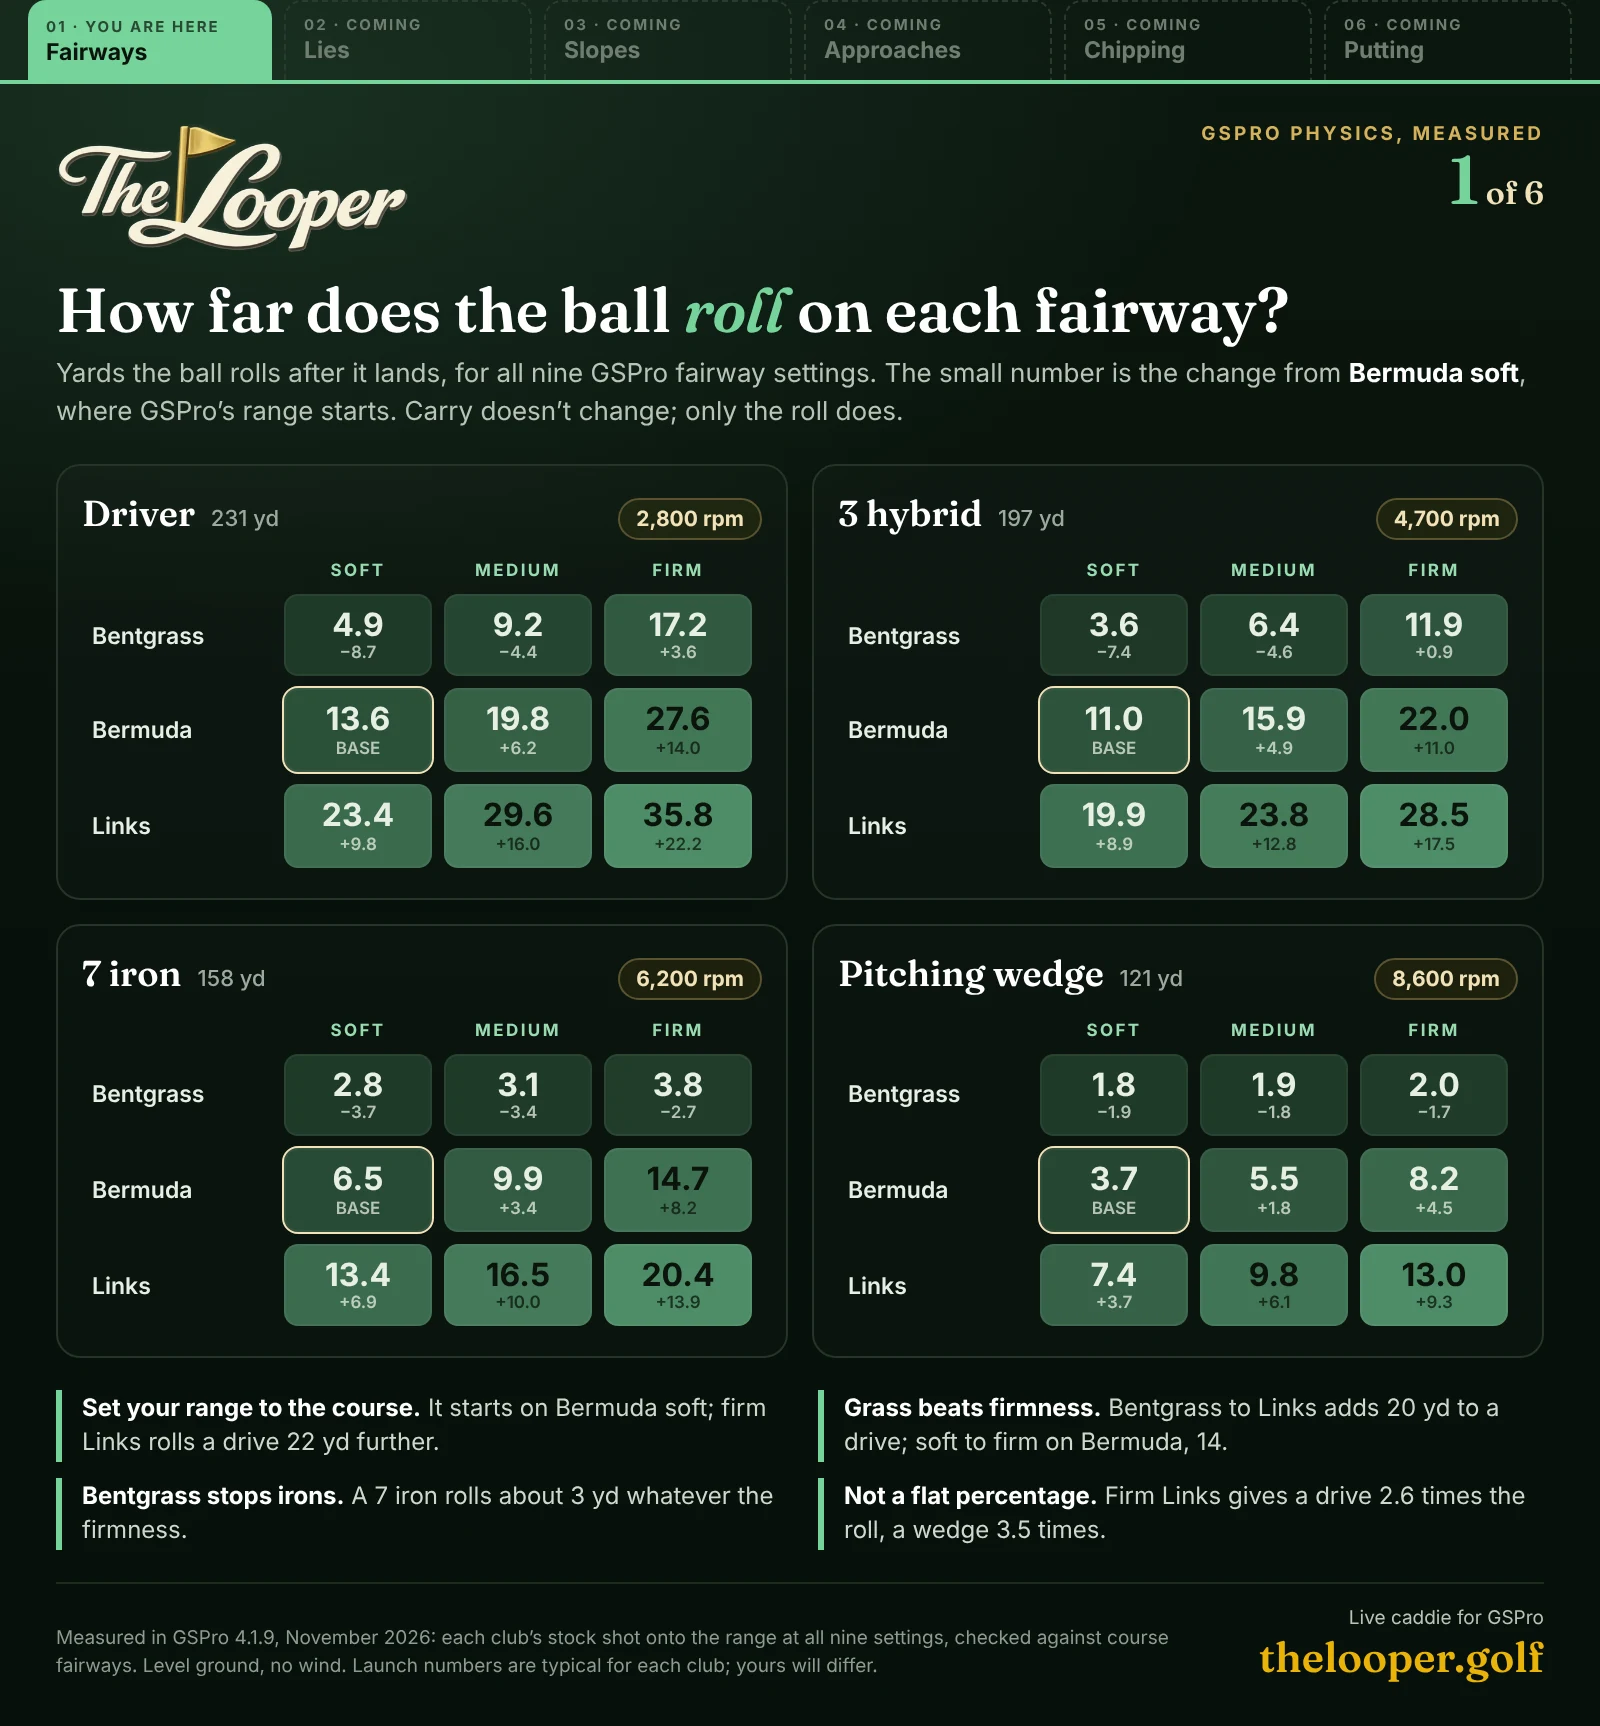
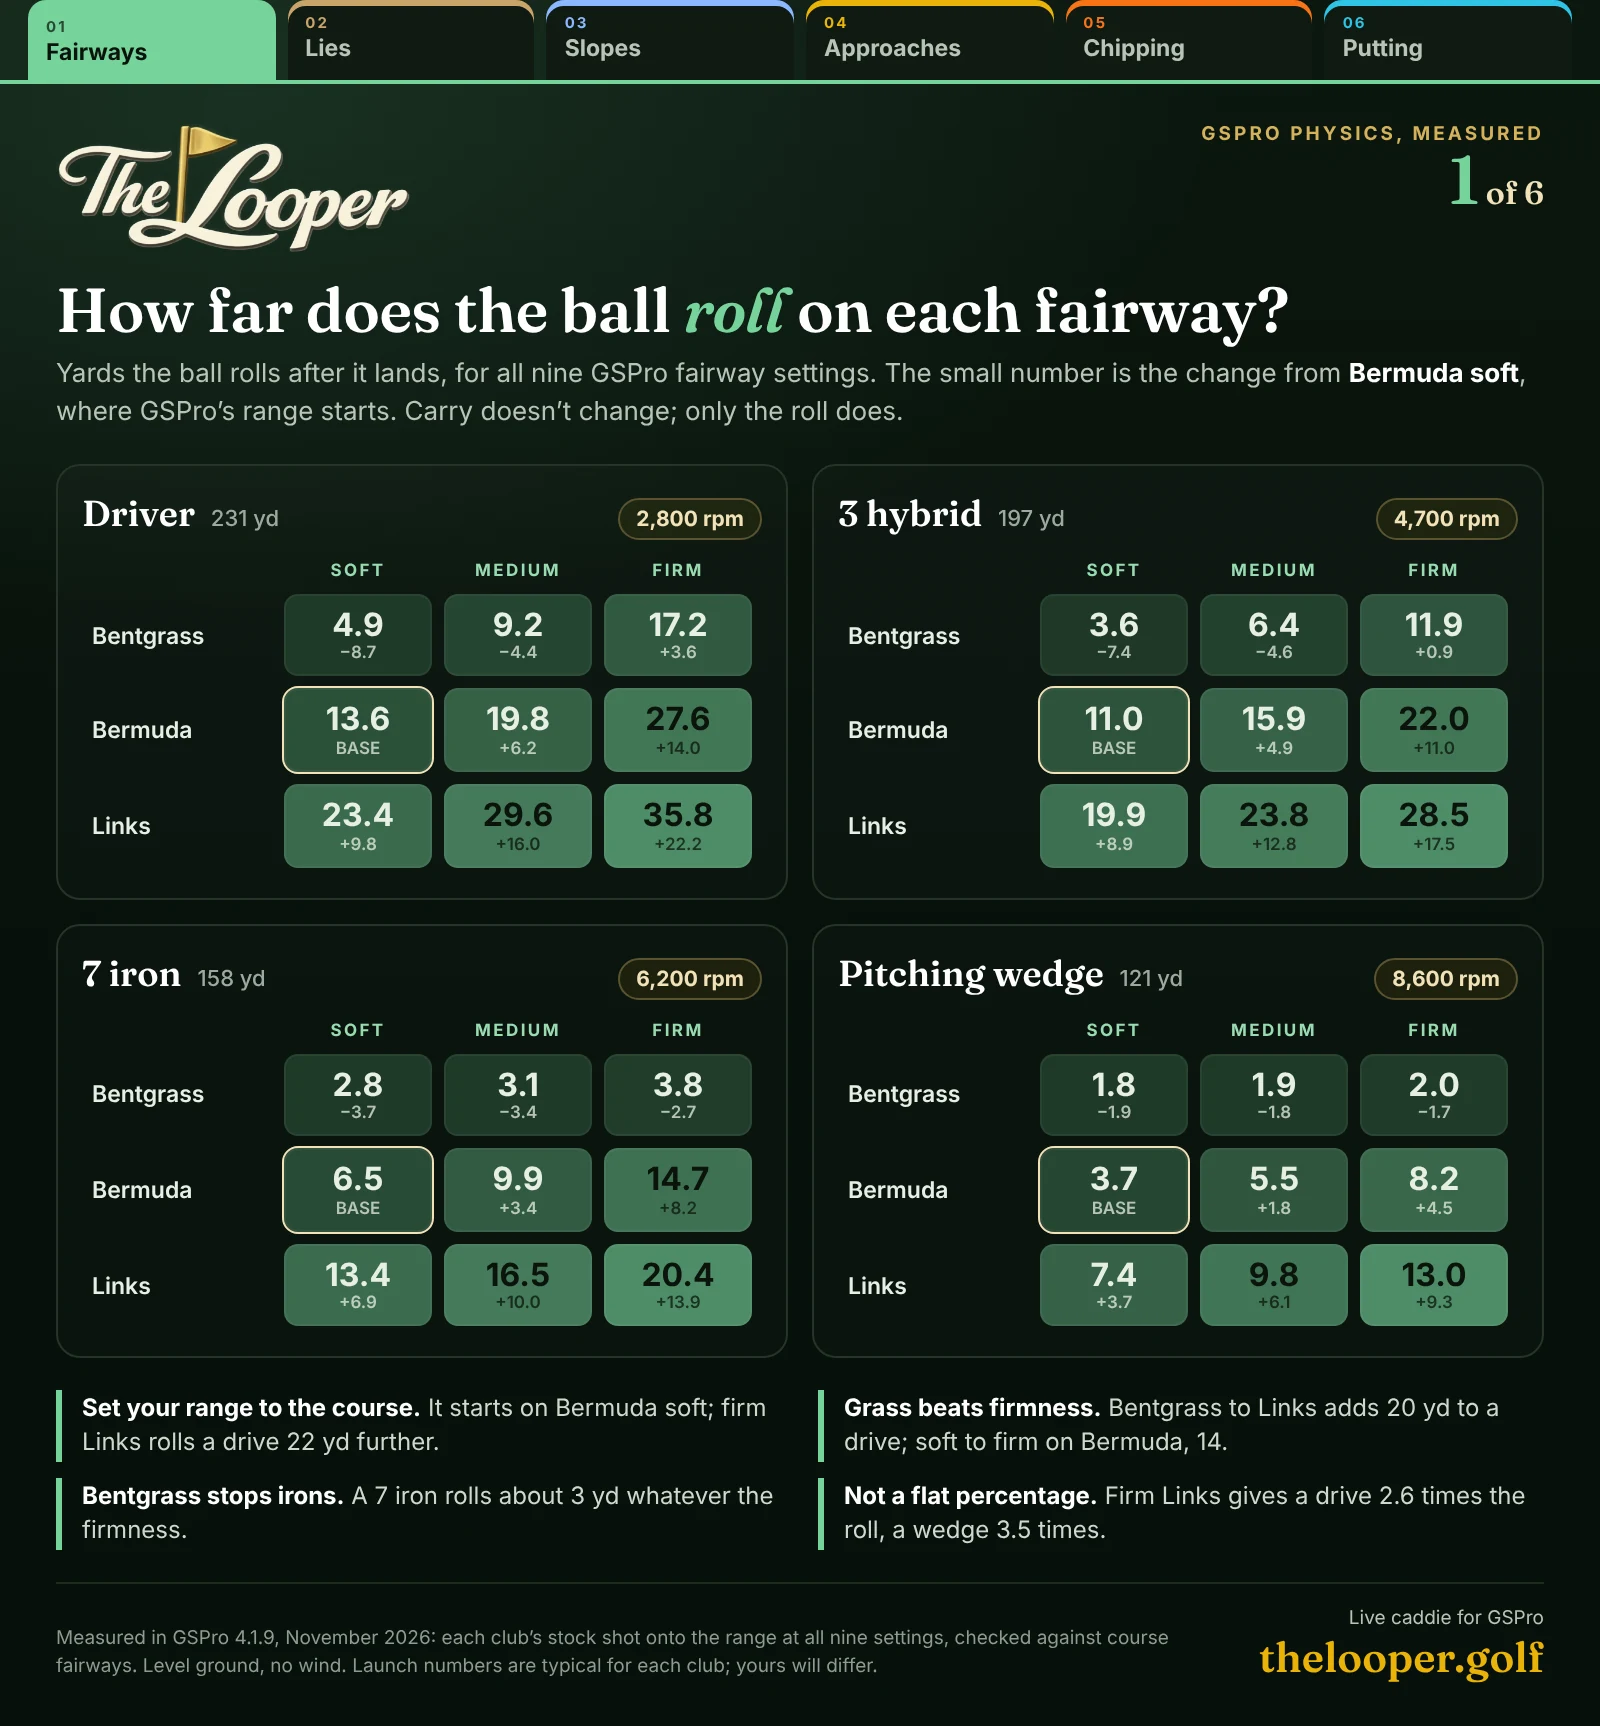
Insights: release all six parts together
Card tabs no longer say Coming / You are here; every part is a plain tab in
its colour. Page and method copy drop the series wording.

Claude-Session: https://claude.ai/code/session_01KGFLfEpMWkfe6jJuN8KeAf

Changed region(s): [[0.1562, 0.0, 0.9688, 0.0307], [0.0625, 0.0921, 0.25, 0.1535], [0.0938, 0.0, 0.125, 0.0307]]

diff --git a/src/pages/InsightsPage.tsx b/src/pages/InsightsPage.tsx
@@ -11,10 +11,9 @@ import InsightsReadQuiz from './InsightsReadQuiz'
 import './InsightsPage.css'
 
 /**
- * "GSPro physics, measured": the public home of the post series. No account
- * needed. Each part is a shareable card plus a short article, and every part
- * points at a free account. Parts that haven't been measured yet are shown as
- * open slots, so the whole series is visible from the first post.
+ * "GSPro physics, measured": six parts released together. No account needed.
+ * Each part is a shareable card plus a short article, and every part points at
+ * a free account.
  *
  * Posts link straight to a part: thelooper.golf/insights#greens
  */
@@ -455,7 +454,7 @@ export default function InsightsPage() {
     <div className="insights-page" id="top">
       <header className="insights-top">
         <div className="insights-wrap insights-top__row">
-          <a className="insights-top__logo" href={onMethod ? '/insights' : '#top'} aria-label={onMethod ? 'The series' : 'Back to the top'}>
+          <a className="insights-top__logo" href={onMethod ? '/insights' : '#top'} aria-label={onMethod ? 'Back to GSPro physics, measured' : 'Back to the top'}>
             <img src={looperLogo} alt="The Looper" />
           </a>
           <nav className="insights-top__nav" aria-label="Account">
@@ -482,7 +481,7 @@ export default function InsightsPage() {
 
         <InsightsReadQuiz />
 
-        <nav className="insights-tabs" aria-label="Parts of the series">
+        <nav className="insights-tabs" aria-label="Parts">
           <div className="insights-wrap insights-tabs__row">
             <a className="insights-tab is-ready" href="#overview" style={colourVar(OVERVIEW_COLOUR)}>
               <span>Overview</span>
@@ -508,7 +507,7 @@ export default function InsightsPage() {
             <h2>Every shot is a sum</h2>
             <div className="insights-entry__text insights-overview">
               <p className="insights-lead">
-                Every part of this series changes one setting at a time. A real shot never does. The ball sits in the
+                Every part here changes one setting at a time. A real shot never does. The ball sits in the
                 rough on a side slope, the green is firm Links and the stimp is 12. Each of those is worth a few yards.
                 Added up, they decide whether you&rsquo;re putting for birdie or chipping for par.
               </p>

diff --git a/src/pages/InsightsMethod.tsx b/src/pages/InsightsMethod.tsx
@@ -1,5 +1,5 @@
 /**
- * How the series is measured: thelooper.golf/insights/method. Linked from the
+ * How the insights are measured: thelooper.golf/insights/method. Linked from the
  * top of the insights page and from each part's "measured in" line. Written as
  * Brian, first person. No shot counts: GSPro repeats a shot exactly, so the
  * count isn't what makes a result solid.
@@ -13,7 +13,7 @@ export default function InsightsMethod() {
         <p className="insights-eyebrow">Method</p>
         <h1>How I tested</h1>
         <p className="insights-hero__lead">
-          Every number in this series comes from GSPro itself. I don&rsquo;t swing at it. I send it a shot, change one
+          Every number here comes from GSPro itself. I don&rsquo;t swing at it. I send it a shot, change one
           setting, and send the exact same shot again.
         </p>
 
@@ -105,7 +105,7 @@ export default function InsightsMethod() {
         </div>
 
         <p className="insights-method__back">
-          <a href="/insights">Back to the series</a>
+          <a href="/insights">Back to the insights</a>
         </p>
       </div>
     </section>

diff --git a/tools/insights_cards/cards.py b/tools/insights_cards/cards.py
@@ -1,4 +1,4 @@
-"""Series cards for thelooper.golf/insights: one HTML per part, rendered to 1600 px wide WebP.
+"""Cards for thelooper.golf/insights: one HTML per part, rendered to 1600 px wide WebP.
 
     python3 tools/insights_cards/cards.py <out_dir> [part ids...]
 
@@ -6,7 +6,7 @@ Needs Python Playwright and Inter installed. Fraunces goes in tools/insights_car
 the two variable TTFs from github.com/google/fonts/tree/main/ofl/fraunces, saved as
 Fraunces_SOFT_WONK_opsz_wght_.ttf and Fraunces-Italic_SOFT_WONK_opsz_wght_.ttf.
 Copy the WebPs into src/assets/insights/ and update each card's width and height in InsightsPage.tsx.
-The numbers are in card_data.py; POSTED below marks parts already posted (striped tab with a tick).
+The numbers are in card_data.py.
 """
 import html
 import json
@@ -27,7 +27,6 @@ PARTS = [
     ("putting", "06", "Putting", "#2ec4e6"),
 ]
 # Parts already posted get a tick and stripes; none are yet.
-POSTED: set = set()
 
 e = html.escape
 
@@ -146,14 +145,12 @@ PANEL = {"grid": grid_panel, "bars": bars_panel, "tiles": tile_panel, "ranges": 
 
 
 def tabs(current):
+    """All six parts ship together: the current one is filled, the rest are plain tabs with their colour."""
     out = []
     for pid, num, name, colour in PARTS:
-        if pid == current:
-            out.append(f'<div class="tab now" style="background:{colour}"><span>{num} · You are here</span>{e(name)}</div>')
-        elif pid in POSTED:
-            out.append(f'<div class="tab posted" style="--c:{colour}"><span>{num} · ✓ Posted</span>{e(name)}</div>')
-        else:
-            out.append(f'<div class="tab soon"><span>{num} · Coming</span>{e(name)}</div>')
+        kind = "now" if pid == current else "other"
+        style = f"background:{colour}" if pid == current else f"--c:{colour}"
+        out.append(f'<div class="tab {kind}" style="{style}"><span>{num}</span>{e(name)}</div>')
     return "".join(out)
 
 
@@ -178,9 +175,8 @@ body {{ width: 800px; font-family: Inter, system-ui, sans-serif; color: #e7efe4;
 .tab span {{ display: block; font-size: 7.5px; letter-spacing: 0.14em; text-transform: uppercase; margin-bottom: 1px; }}
 .tab.now {{ color: #0b140d; padding-top: 9px; }}
 .tab.now span {{ color: rgba(11,20,13,.72); }}
-.tab.soon {{ border: 1px dashed #2b3a2e; border-bottom: 0; }}
-.tab.posted {{ color: #e7efe4; background: repeating-linear-gradient(135deg, color-mix(in srgb, var(--c) 26%, #0b140d) 0 6px, #0b140d 6px 12px); }}
-.tab.posted span {{ color: var(--c); }}
+.tab.other {{ color: #b9c4b7; background: #0f1a12; box-shadow: inset 0 3px 0 var(--c); }}
+.tab.other span {{ color: var(--c); }}
 .top {{ display: flex; align-items: flex-start; justify-content: space-between; margin-top: 20px; }}
 .top img {{ height: 64px; }}
 .series {{ text-align: right; }}
